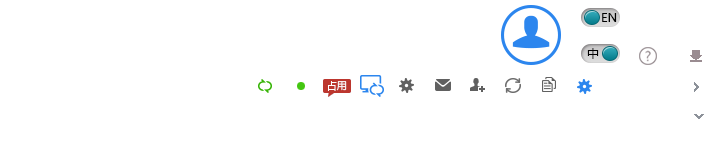
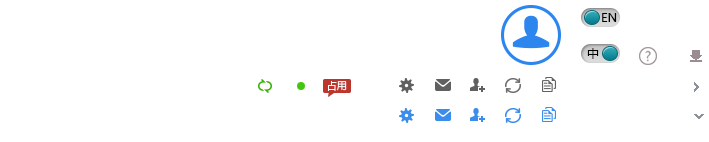
default page finished

diff --git a/src/works/frames/meeting-home.html b/src/works/frames/meeting-home.html
@@ -26,7 +26,7 @@
           <li><a href=""><i class="icon invite"></i>邮件邀请</a></li>
           <li><a href=""><i class="icon notice"></i>短信通知</a></li>
           <li><a href=""><i class="icon copy"></i>复制邀请信息</a></li>
-          <li><a href=""><i class="icon settings"></i>设置</a></li>
+          <li><a><i class="icon settings"></i>设置</a></li>
           <li><button class="btn btn-success">进入会议</button></li>
         </ul>
       </div>
@@ -67,7 +67,7 @@
           <li><a href=""><i class="icon invite"></i>邮件邀请</a></li>
           <li><a href=""><i class="icon notice"></i>短信通知</a></li>
           <li><a href=""><i class="icon copy"></i>复制邀请信息</a></li>
-          <li><a href=""><i class="icon settings"></i>设置</a></li>
+          <li class="settings"><a><i class="icon settings"></i>设置</a></li>
           <li><button class="btn btn-primary">开始会议</button></li>
         </ul>
       </div>
@@ -85,7 +85,18 @@
           <li><a href=""><i class="icon invite"></i>邮件邀请</a></li>
           <li><a href=""><i class="icon notice"></i>短信通知</a></li>
           <li><a href=""><i class="icon copy"></i>复制邀请信息</a></li>
-          <li><a href=""><i class="icon settings"></i>设置</a></li>
+          <li class="settings">
+            <a><i class="icon settings"></i>设置</a>
+            <div class="options">
+              <span class="corner"></span>
+              <div class="text-overflow">
+                <button class="btn btn-primary">修改本次</button>
+                <button class="btn btn-primary">修改全部</button>
+                <button class="btn btn-primary">取消本次</button>
+                <button class="btn btn-primary">取消全部</button>
+              </div>
+            </div>
+          </li>
           <li><button class="btn btn-success">进入会议</button></li>
         </ul>
       </div>
@@ -103,7 +114,7 @@
           <li class="disabled"><i class="icon invite"></i>邮件邀请</li>
           <li class="disabled"><i class="icon notice"></i>短信通知</li>
           <li class="disabled"><i class="icon copy"></i>复制邀请信息</li>
-          <li class="disabled"><i class="icon settings"></i>设置</li>
+          <li class="settings disabled"><i class="icon settings"></i>设置</li>
           <li><button class="btn btn-primary" disabled>开始会议</button></li>
         </ul>
       </div>
@@ -121,7 +132,18 @@
           <li><a href=""><i class="icon invite"></i>邮件邀请</a></li>
           <li><a href=""><i class="icon notice"></i>短信通知</a></li>
           <li><a href=""><i class="icon copy"></i>复制邀请信息</a></li>
-          <li><a href=""><i class="icon settings"></i>设置</a></li>
+          <li class="settings">
+            <a><i class="icon settings"></i>设置</a>
+            <div class="options">
+              <span class="corner"></span>
+              <div class="text-overflow">
+                <button class="btn btn-primary">修改本次</button>
+                <button class="btn btn-primary">修改全部</button>
+                <button class="btn btn-primary">取消本次</button>
+                <button class="btn btn-primary">取消全部</button>
+              </div>
+            </div>
+          </li>
           <li><button class="btn btn-primary">开始会议</button></li>
         </ul>
       </div>
@@ -139,7 +161,18 @@
           <li><a href=""><i class="icon invite"></i>邮件邀请</a></li>
           <li><a href=""><i class="icon notice"></i>短信通知</a></li>
           <li><a href=""><i class="icon copy"></i>复制邀请信息</a></li>
-          <li><a href=""><i class="icon settings"></i>设置</a></li>
+          <li class="settings">
+            <a><i class="icon settings"></i>设置</a>
+            <div class="options">
+              <span class="corner"></span>
+              <div class="text-overflow">
+                <button class="btn btn-primary">修改本次</button>
+                <button class="btn btn-primary">修改全部</button>
+                <button class="btn btn-primary">取消本次</button>
+                <button class="btn btn-primary">取消全部</button>
+              </div>
+            </div>
+          </li>
           <li><button class="btn btn-primary">开始会议</button></li>
         </ul>
       </div>
@@ -157,7 +190,18 @@
           <li><a href=""><i class="icon invite"></i>邮件邀请</a></li>
           <li><a href=""><i class="icon notice"></i>短信通知</a></li>
           <li><a href=""><i class="icon copy"></i>复制邀请信息</a></li>
-          <li><a href=""><i class="icon settings"></i>设置</a></li>
+          <li class="settings">
+            <a><i class="icon settings"></i>设置</a>
+            <div class="options">
+              <span class="corner"></span>
+              <div class="text-overflow">
+                <button class="btn btn-primary">修改本次</button>
+                <button class="btn btn-primary">修改全部</button>
+                <button class="btn btn-primary">取消本次</button>
+                <button class="btn btn-primary">取消全部</button>
+              </div>
+            </div>
+          </li>
           <li><button class="btn btn-primary">开始会议</button></li>
         </ul>
       </div>
@@ -175,7 +219,18 @@
           <li><a href=""><i class="icon invite"></i>邮件邀请</a></li>
           <li><a href=""><i class="icon notice"></i>短信通知</a></li>
           <li><a href=""><i class="icon copy"></i>复制邀请信息</a></li>
-          <li><a href=""><i class="icon settings"></i>设置</a></li>
+          <li class="settings">
+            <a><i class="icon settings"></i>设置</a>
+            <div class="options">
+              <span class="corner"></span>
+              <div class="text-overflow">
+                <button class="btn btn-primary">修改本次</button>
+                <button class="btn btn-primary">修改全部</button>
+                <button class="btn btn-primary">取消本次</button>
+                <button class="btn btn-primary">取消全部</button>
+              </div>
+            </div>
+          </li>
           <li><button class="btn btn-primary">开始会议</button></li>
         </ul>
       </div>
@@ -183,5 +238,6 @@
 
     <script type="text/javascript" src="/assets/js/lib/jquery.js"></script>
     <script type="text/javascript" src="/assets/js/lib/base.js"></script>
+    <script type="text/javascript" src="/assets/js/app/home.js"></script>
   </body>
 </html>

diff --git a/src/css/app/meeting-home.css b/src/css/app/meeting-home.css
@@ -1,12 +1,13 @@
 html, body { background: #fff; }
 body { padding: 20px; }
-.btn { display: inline-block; padding: 4px 15px; margin: 0; font-size: 12px; font-weight: normal; line-height: 20px; text-align: center; white-space: nowrap; vertical-align: middle; cursor: pointer; background-image: none; border: 1px solid transparent; border-radius: 2px; outline: 0; }
+.btn { display: inline-block; padding: 4px 15px; margin: 0; font-size: 12px; font-weight: normal; line-height: 20px; text-align: center; white-space: nowrap; vertical-align: middle; cursor: pointer; background-image: none; border: 1px solid transparent; border-radius: 2px; outline: 0; overflow: visible; }
 .btn-default { background-color: #F9F9F9; }
 .btn-primary { background-color: #2C86EE; color: #fff; }
 .btn-primary:hover { background-color: #2B94D6; }
 .btn-success { background-color: #00A200; color: #fff; }
 .btn-success:hover { background-color: #5da127; }
 .btn[disabled] { opacity: 0.5; filter: alpha(opacity=50); cursor: not-allowed; }
+.text-overflow { overflow: hidden; text-overflow: ellipsis; white-space: nowrap; zoom: 1; }
 .banner { height: 108px; background-color: #E4E8EE; }
 .banner > .wrapper { padding: 20px 0 20px 20px; }
 .banner .user > .icon { float: left; width: 60px; height: 60px; background: transparent url(/assets/images/login/icons-cloud.png) -501px -5px no-repeat; }
@@ -16,14 +17,23 @@ body { padding: 20px; }
 .banner .user .number .icon { float: left; width: 28px; height: 18px; background: transparent url(/assets/images/login/icons-cloud.png) -323px -79px no-repeat; position: absolute; right: -33px; top: -5px; }
 .banner .list-actions { padding-top: 15px; }
 .list-actions { float: right; }
-.list-actions li { float: left; margin-right: 20px; line-height: 30px; }
-.list-actions li > a { color: #333; }
+.list-actions li { float: left; margin-right: 20px; line-height: 30px; position: relative; }
+.list-actions li > a { color: #333; position: relative; z-index: 20; }
+.list-actions li.active > a, .list-actions li > a:hover { color: #4993e8; }
 .list-actions .icon { display: inline-block; vertical-align: middle; background: transparent url(/assets/images/login/icons-cloud.png) -501px -5px no-repeat; width: 20px; height: 20px; margin-right: 3px; }
 .list-actions .icon.invite { background-position: -470px -76px; }
 .list-actions .icon.notice { background-position: -435px -76px; }
 .list-actions .icon.copy { background-position: -542px -76px; }
 .list-actions .icon.settings { background-position: -399px -76px; }
-.list-actions li.disabled { opacity: 0.5; filter: alpha(opacity=50); }
+.list-actions a:hover .icon.invite { background-position: -470px -106px; }
+.list-actions a:hover .icon.notice { background-position: -435px -106px; }
+.list-actions a:hover .icon.copy { background-position: -542px -106px; }
+.list-actions li.active > a .icon.settings, .list-actions a:hover .icon.settings { background-position: -399px -106px; }
+.list-actions li.disabled, .list-actions li.disabled a:hover { opacity: 0.5; filter: alpha(opacity=50); color: #333; }
+.list-actions li.active .options { display: block; }
+.list-actions li .options { display: none; position: absolute; top: 38px; right: -100px; z-index: 10; text-align: right; background: #606060; background: rgba(0, 0, 0, 0.6); padding: 15px 13px; *width: 340px; }
+.list-actions li .options .corner { position: absolute; width: 0; height: 0; overflow: hidden; font-size: 0; line-height: 0; top: -30px; *top: -28px; right: 102px; border-top: 15px solid transparent; border-left: 15px solid transparent; border-right: 15px solid transparent; border-bottom: 15px solid #606060; border-bottom: 15px solid rgba(0, 0, 0, 0.6); }
+.list-actions li .options .btn { margin: 0 2px; }
 .summary { padding: 10px 0; }
 .summary .filter { float: left; }
 .summary .filter .time-case .input-text { width: 70px; padding-right: 30px; background: #FFFFFF url(/assets/images/bg/year.png) 85px center no-repeat; }
@@ -41,4 +51,4 @@ body { padding: 20px; }
 .item-meeting.active .summary h4 a { color: #00A200; }
 .item-meeting.active .summary { background: transparent url(/assets/images/login/active.png) 12px 12px no-repeat; }
 .item-meeting.active .calendar .time { background: transparent url(/assets/images/login/running.png) 57px center no-repeat; }
-.item-meeting.regular .calendar .time {background: transparent url(/assets/images/login/regular.png) center center no-repeat; }
+.item-meeting.regular .calendar .time { background: transparent url(/assets/images/login/regular.png) center center no-repeat; }

diff --git a/src/css/app/login.css b/src/css/app/login.css
@@ -15,17 +15,13 @@ i.icon.camera { background-position: -612px -78px; width: 25px; height: 20px; }
 #meeting .btn { width: 80px; margin-left: 5px; font-size: 18px; width: 80px; height: 48px; border-radius: 8px; }
 #meeting .form-control { font-size: 20px; width: 400px; border-radius: 8px; padding: 10px 15px; }
 #footer { color: #fff; text-align: center; width: 100%; position: absolute; bottom: 0; opacity: 0.5; filter: alpha(opacity=50); }
-#footer .nav { margin-bottom: 5px; }
-#footer .nav li { display: inline-block; *display: inline; }
-#footer .nav li a { color: #fff; text-decoration: none; margin: 0 10px; }
-#footer .copyright { margin-bottom: 20px; }
 #banner { height: 195px; width: 100%; color: #fff; position: absolute; top: 52%; border: 1px solid rgba(255, 255, 255, 0.4); background: rgba(255, 255, 255, 0.2); border-left: none; border-right: 0; margin-bottom: 10px; }
 .login { width: 460px; margin: 0 auto; position: relative; z-index: 10; }
-.login label.for { font-size: 14px; display: none;}
+.login label.for { font-size: 14px; display: none; }
 .login .title { font-size: 16px; margin: 40px 0 10px; }
 .login .form-control { margin-right: 5px; font-size: 14px; }
 .login .btn-primary { box-shadow: 0 0 2px #1167b5 inset; font-size: 14px; height: 36px; }
-.login .holder { width: 178px; margin-right: 5px; display: inline-block; *display: inline;}
+.login .holder { width: 178px; margin-right: 5px; display: inline-block; *display: inline; }
 .login .forget a { color: #fff; text-decoration: underline; }
 /* hack ie */
 .no-rgba #banner { border-color: #eee; }
@@ -36,5 +32,5 @@ i.icon.camera { background-position: -612px -78px; width: 25px; height: 20px; }
 .no-rgba #banner .hack-bg .bottom { bottom: 0; width: 100%; border-bottom: 1px solid #fff; pacity: 0.4; filter: alpha(opacity=40); }
 .no-placeholder .login { width: 545px; }
 .no-placeholder label.for { display: inline-block; *display: inline; }
-.no-placeholder .login .holder {padding-left:42px;}
-.no-placeholder .login .holder.forget {padding-left: 46px;}
+.no-placeholder .login .holder { padding-left: 42px; }
+.no-placeholder .login .holder.forget { padding-left: 46px; }

diff --git a/src/css/app/default.css b/src/css/app/default.css
@@ -1,9 +1,9 @@
-html, body { background-color: #DCE0E7; min-width: 1050px;}
+html, body { background-color: #DCE0E7; min-width: 1050px; }
 #content .wrapper { background: transparent; }
 #header { height: 60px; background-color: #8B2C92; overflow: hidden; }
 #logo { padding: 10px 0 0 20px; float: left; }
 #logo img { display: block; }
-#header .name { float: left; font-size: 18px; line-height: 60px; color: #fff; margin-left: 20px; }
+#header .name { float: left; font-size: 18px; line-height: 60px; color: #fff; margin-left: 20px; letter-spacing: 2px; }
 #header nav { float: right; }
 #header nav a { float: left; color: #fff; width: 111px; height: 55px; line-height: 55px; margin-top: 2px; background-color: #eee; margin-right: 3px; text-decoration: none; }
 #header nav a .icon { display: inline-block; background: transparent url(/assets/images/login/icons-cloud.png) 0 0 no-repeat; vertical-align: middle; width: 25px; height: 25px; margin: 0 8px 0 10px; }
@@ -14,9 +14,9 @@ html, body { background-color: #DCE0E7; min-width: 1050px;}
 #header nav a.red .icon { background-position: -6px -73px; }
 #header nav a.green .icon { background-position: -41px -76px; }
 #header nav a.blue .icon { width: 20px; background-position: -76px -76px; }
-#header nav a.cyan .icon { width: 39px; height: 19px; background-position: -581px -44px; }
+#header nav a.cyan .icon { width: 39px; height: 19px; background-position: -581px -44px; vertical-align: top; margin-top: 18px; }
 #header nav a.cyan.english .icon { width: 39px; height: 19px; background-position: -581px -9px; }
-#lside { width: 220px; float: left; background: transparent;}
+#lside { width: 220px; float: left; background: transparent; }
 #lside .personal { position: relative; height: 93px; background-color: #8B2C92; font-size: 0; }
 #lside .personal .user { float: left; width: 121px; height: 85px; border: 2px solid #00A200; background-color: #00A200; color: #fff; text-align: center; font-size: 12px; text-decoration: none; }
 #lside .personal .user:hover { border-color: #fff; }

diff --git a/src/css/base.css b/src/css/base.css
@@ -194,8 +194,11 @@ html, body { background: #FFFFFF; }
 #lside .menubar span:hover .icon-product, #lside .menubar .active .icon-product { background-position: -18px -317px; }
 #lside .menubar span:hover .icon-company, #lside .menubar .active .icon-company { background-position: -18px -258px; }
 #lside .menubar span:hover .icon-finder, #lside .menubar .active .icon-finder { background-position: -18px -240px; }
-#footer .wrapper { border-top: 1px solid #828991; line-height: 38px; background: #404348; }
-#footer .copy { text-align: center; color: #999999; font-weight: bold; }
+#footer {text-align: center; width: 100%; margin-top: 20px; color: #aaa;}
+#footer .nav { margin-bottom: 5px; }
+#footer .nav li { display: inline-block; *display: inline; }
+#footer .nav li a { color: #aaa; text-decoration: none; margin: 0 10px; }
+#footer .copyright { margin-bottom: 20px; }
 .error-item .input-text { border-color: #C56360; background: #FAE2E2; color: #C51500; }
 .error-item .error { color: #C91600; line-height: 20px; }
 .success-item .tips, .error-item .tips { display: none; }

diff --git a/src/works/default.html b/src/works/default.html
@@ -118,6 +118,16 @@
       </div>
     </div>
 
+    <div id="footer">
+      <ul class="nav">
+        <li><a href="">下载中心</a></li>
+        <li><a href="">视频云SLA</a></li>
+        <li><a href="">使用指南</a></li>
+        <li>热线：400 082 6161</li>
+      </ul>
+      <p class="copyright">Copyright © 2003-2014 BizConf Telecom Co., Ltd. All right Reserved. 沪ICP备 11034277号-5</p>
+    </div>
+
     <script type="text/javascript" src="/assets/js/lib/jquery.js"></script>
     <script type="text/javascript" src="/assets/js/app/default.js"></script>
   </body>

diff --git a/src/js/app/home.js b/src/js/app/home.js
@@ -1,0 +1,7 @@
+$(function () {
+  $('.list-actions li.settings').click(function () {
+    if (!$(this).is('.disabled')) {
+      $(this).toggleClass('active');
+    }
+  });
+});
